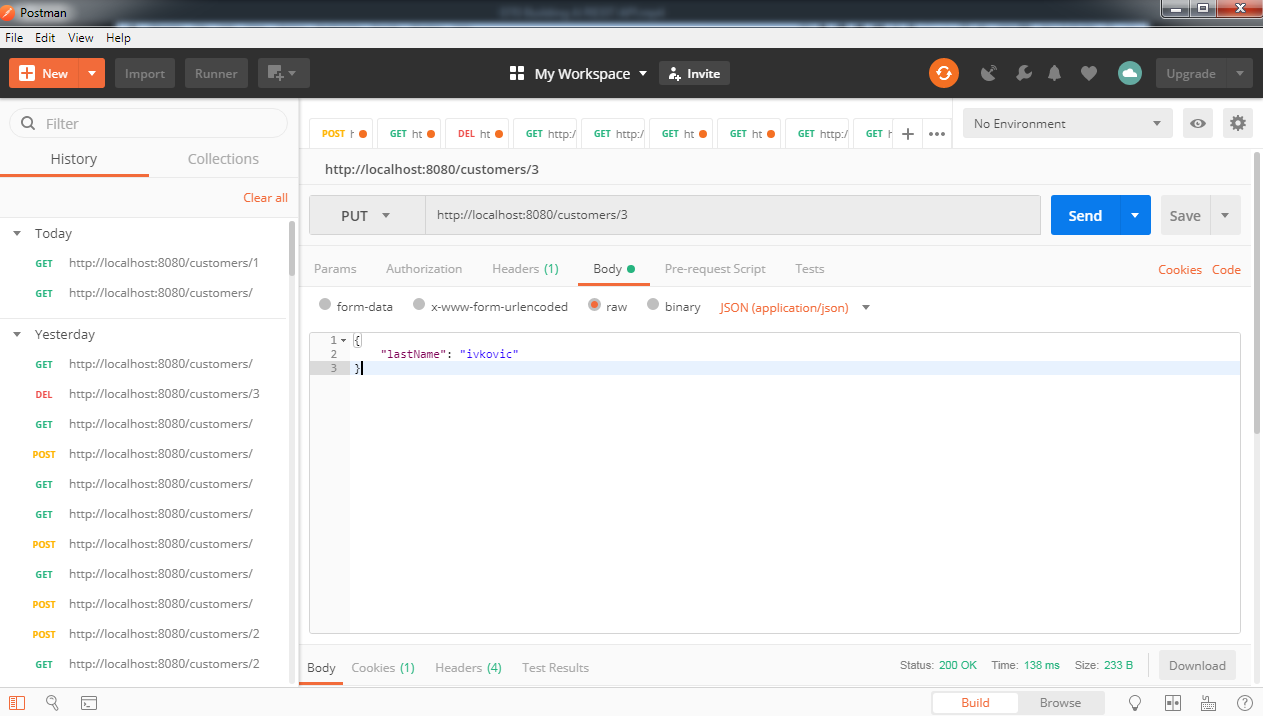
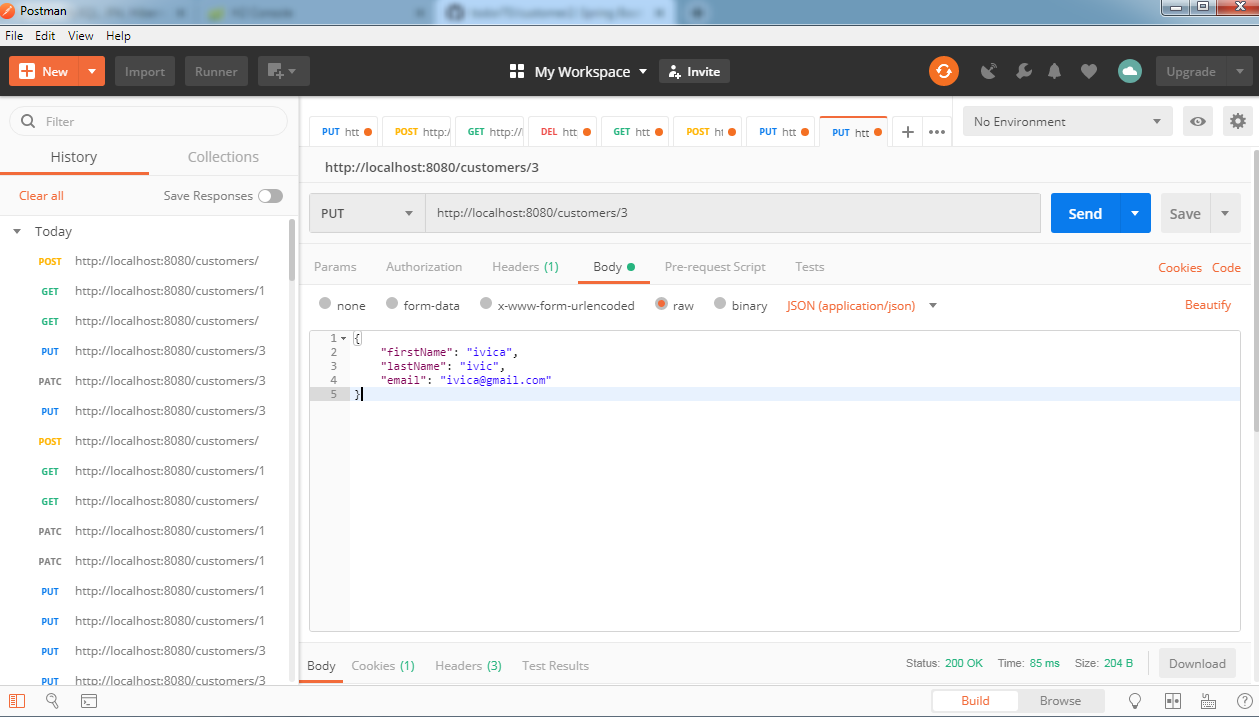
added patch

diff --git a/src/test/java/com/zeljko/customer2/controller/CustomerControllerIT.java b/src/test/java/com/zeljko/customer2/controller/CustomerControllerIT.java
@@ -12,7 +12,6 @@ import org.junit.Test;
 import org.junit.runner.RunWith;
 import org.junit.runners.MethodSorters;
 import org.springframework.beans.factory.annotation.Autowired;
-import org.springframework.boot.test.autoconfigure.web.servlet.WebMvcTest;
 import org.springframework.boot.test.context.SpringBootTest;
 import org.springframework.http.MediaType;
 import org.springframework.mock.web.MockServletContext;
@@ -29,7 +28,7 @@ import javax.servlet.ServletContext;
 @RunWith(SpringJUnit4ClassRunner.class)
 @ContextConfiguration(classes = Customer2Application.class)
 @SpringBootTest
-@FixMethodOrder(MethodSorters.NAME_ASCENDING)
+@FixMethodOrder(MethodSorters.JVM)
 public class CustomerControllerIT {
 
     private MockMvc mockMvc;
@@ -56,7 +55,7 @@ public class CustomerControllerIT {
     public void verifyList() throws Exception {
         mockMvc.perform(MockMvcRequestBuilders.get("/customers/")
                 .accept(MediaType.APPLICATION_JSON))
-                .andExpect(jsonPath("$", hasSize(3))).andDo(print());
+                .andExpect(jsonPath("$", hasSize(2))).andDo(print());
     }
 
     @Test
@@ -84,27 +83,44 @@ public class CustomerControllerIT {
                 .andExpect(jsonPath("$.firstName").exists())
                 .andExpect(jsonPath("$.lastName").exists())
                 .andExpect(jsonPath("$.email").exists())
+                .andExpect(jsonPath("$.id").value(3))
                 .andExpect(jsonPath("$.firstName").value("nemanja"))
                 .andExpect(jsonPath("$.lastName").value("nemanjic"))
                 .andExpect(jsonPath("$.email").value("nemanja@gmail.com"))
                 .andDo(print());
     }
 
+    @Test
+    public void verifyPut() throws Exception {
+        mockMvc.perform(MockMvcRequestBuilders.put("/customers/2")
+                .contentType(MediaType.APPLICATION_JSON)
+                .content("{\"firstName\" : \"pera\", \"lastName\" : \"peric\", \"email\" : \"petar@gmail.com\" }")
+                .accept(MediaType.APPLICATION_JSON))
+                .andExpect(jsonPath("$.id").exists())
+                .andExpect(jsonPath("$.firstName").exists())
+                .andExpect(jsonPath("$.lastName").exists())
+                .andExpect(jsonPath("$.email").exists())
+                .andExpect(jsonPath("$.id").value(2))
+                .andExpect(jsonPath("$.firstName").value("pera"))
+                .andExpect(jsonPath("$.lastName").value("peric"))
+                .andExpect(jsonPath("$.email").value("petar@gmail.com"))
+                .andDo(print());
+    }
 
     @Test
-    public void verifyUpdate() throws Exception {
-        mockMvc.perform(MockMvcRequestBuilders.post("/customers/")
+    public void verifyPatch() throws Exception {
+        mockMvc.perform(MockMvcRequestBuilders.patch("/customers/1")
                 .contentType(MediaType.APPLICATION_JSON)
-                .content("{\"id\" : \"1\", \"firstName\" : \"nemanja\", \"lastName\" : \"nemanjic\", \"email\" : \"nemanja@gmail.com\" }")
+                .content("{\"lastName\" : \"maric\", \"email\" : \"mare@gmail.com\" }")
                 .accept(MediaType.APPLICATION_JSON))
                 .andExpect(jsonPath("$.id").exists())
                 .andExpect(jsonPath("$.firstName").exists())
                 .andExpect(jsonPath("$.lastName").exists())
                 .andExpect(jsonPath("$.email").exists())
                 .andExpect(jsonPath("$.id").value(1))
-                .andExpect(jsonPath("$.firstName").value("nemanja"))
-                .andExpect(jsonPath("$.lastName").value("nemanjic"))
-                .andExpect(jsonPath("$.email").value("nemanja@gmail.com"))
+                .andExpect(jsonPath("$.firstName").value("marko"))
+                .andExpect(jsonPath("$.lastName").value("maric"))
+                .andExpect(jsonPath("$.email").value("mare@gmail.com"))
                 .andDo(print());
     }
 

diff --git a/src/main/java/com/zeljko/customer2/service/CustomerServiceImpl.java b/src/main/java/com/zeljko/customer2/service/CustomerServiceImpl.java
@@ -34,16 +34,36 @@ public class CustomerServiceImpl implements CustomerService {
     }
 
     @Override
+    public Customer update(long id, Customer customerUpdate) {
+        Customer customer = customerRepository.findById(id).get();
+
+        customer.setFirstName(customerUpdate.getFirstName());
+        customer.setLastName(customerUpdate.getLastName());
+        customer.setEmail(customerUpdate.getEmail());
+
+        return customerRepository.save(customer);
+    }
+
+    @Override
+    public Customer patch(long id, Customer customerPatch) {
+        Customer customer = customerRepository.findById(id).get();
+
+        if (customerPatch.getFirstName() != null) {
+            customer.setFirstName(customerPatch.getFirstName());
+        }
+        if (customerPatch.getLastName() != null) {
+            customer.setLastName(customerPatch.getLastName());
+        }
+        if (customerPatch.getEmail() != null) {
+            customer.setEmail(customerPatch.getEmail());
+        }
+
+        return customerRepository.save(customer);
+    }
+
+    @Override
     public void delete(long id) {
         customerRepository.deleteById(id);
     }
 
-    @Override
-    public Customer update(long id, Customer update) {
-        Customer customer = customerRepository.findById(id).get();
-        if( update.getLastName() != null ) {
-            customer.setLastName(update.getLastName());
-        }
-        return customerRepository.save(customer);
-    }
 }

diff --git a/src/main/java/com/zeljko/customer2/controller/CustomerController.java b/src/main/java/com/zeljko/customer2/controller/CustomerController.java
@@ -40,10 +40,14 @@ public class CustomerController {
         return customerService.update(id, customer);
     }
 
+    @RequestMapping( value = "/{id}", method = RequestMethod.PATCH )
+    public Customer patch(@PathVariable(value="id") long id, @RequestBody Customer customer){
+        return customerService.patch(id, customer);
+    }
+
     @RequestMapping( value = "/{id}", method = RequestMethod.DELETE )
     public void delete(@PathVariable(value="id") long id){
         customerService.delete(id);
     }
-
 
 }

diff --git a/src/test/java/com/zeljko/customer2/controller/CustomerControllerTests.java b/src/test/java/com/zeljko/customer2/controller/CustomerControllerTests.java
@@ -1,11 +1,7 @@
 package com.zeljko.customer2.controller;
 
-//import com.zeljko.customer2.dao.CustomerDAO;
 import com.zeljko.customer2.entity.Customer;
-//import com.zeljko.springdemo.repository.CustomerRepository;
-//import org.assertj.core.util.Lists;
 import com.zeljko.customer2.service.CustomerService;
-//import com.zeljko.springdemo.service.CustomerServiceImpl;
 import org.assertj.core.util.Lists;
 import org.junit.Before;
 import org.junit.Test;

diff --git a/src/main/java/com/zeljko/customer2/service/CustomerService.java b/src/main/java/com/zeljko/customer2/service/CustomerService.java
@@ -12,5 +12,7 @@ public interface CustomerService {
 
     Customer update(long id, Customer customer);
 
+    Customer patch(long id, Customer customer);
+
     void delete(long id);
 }
